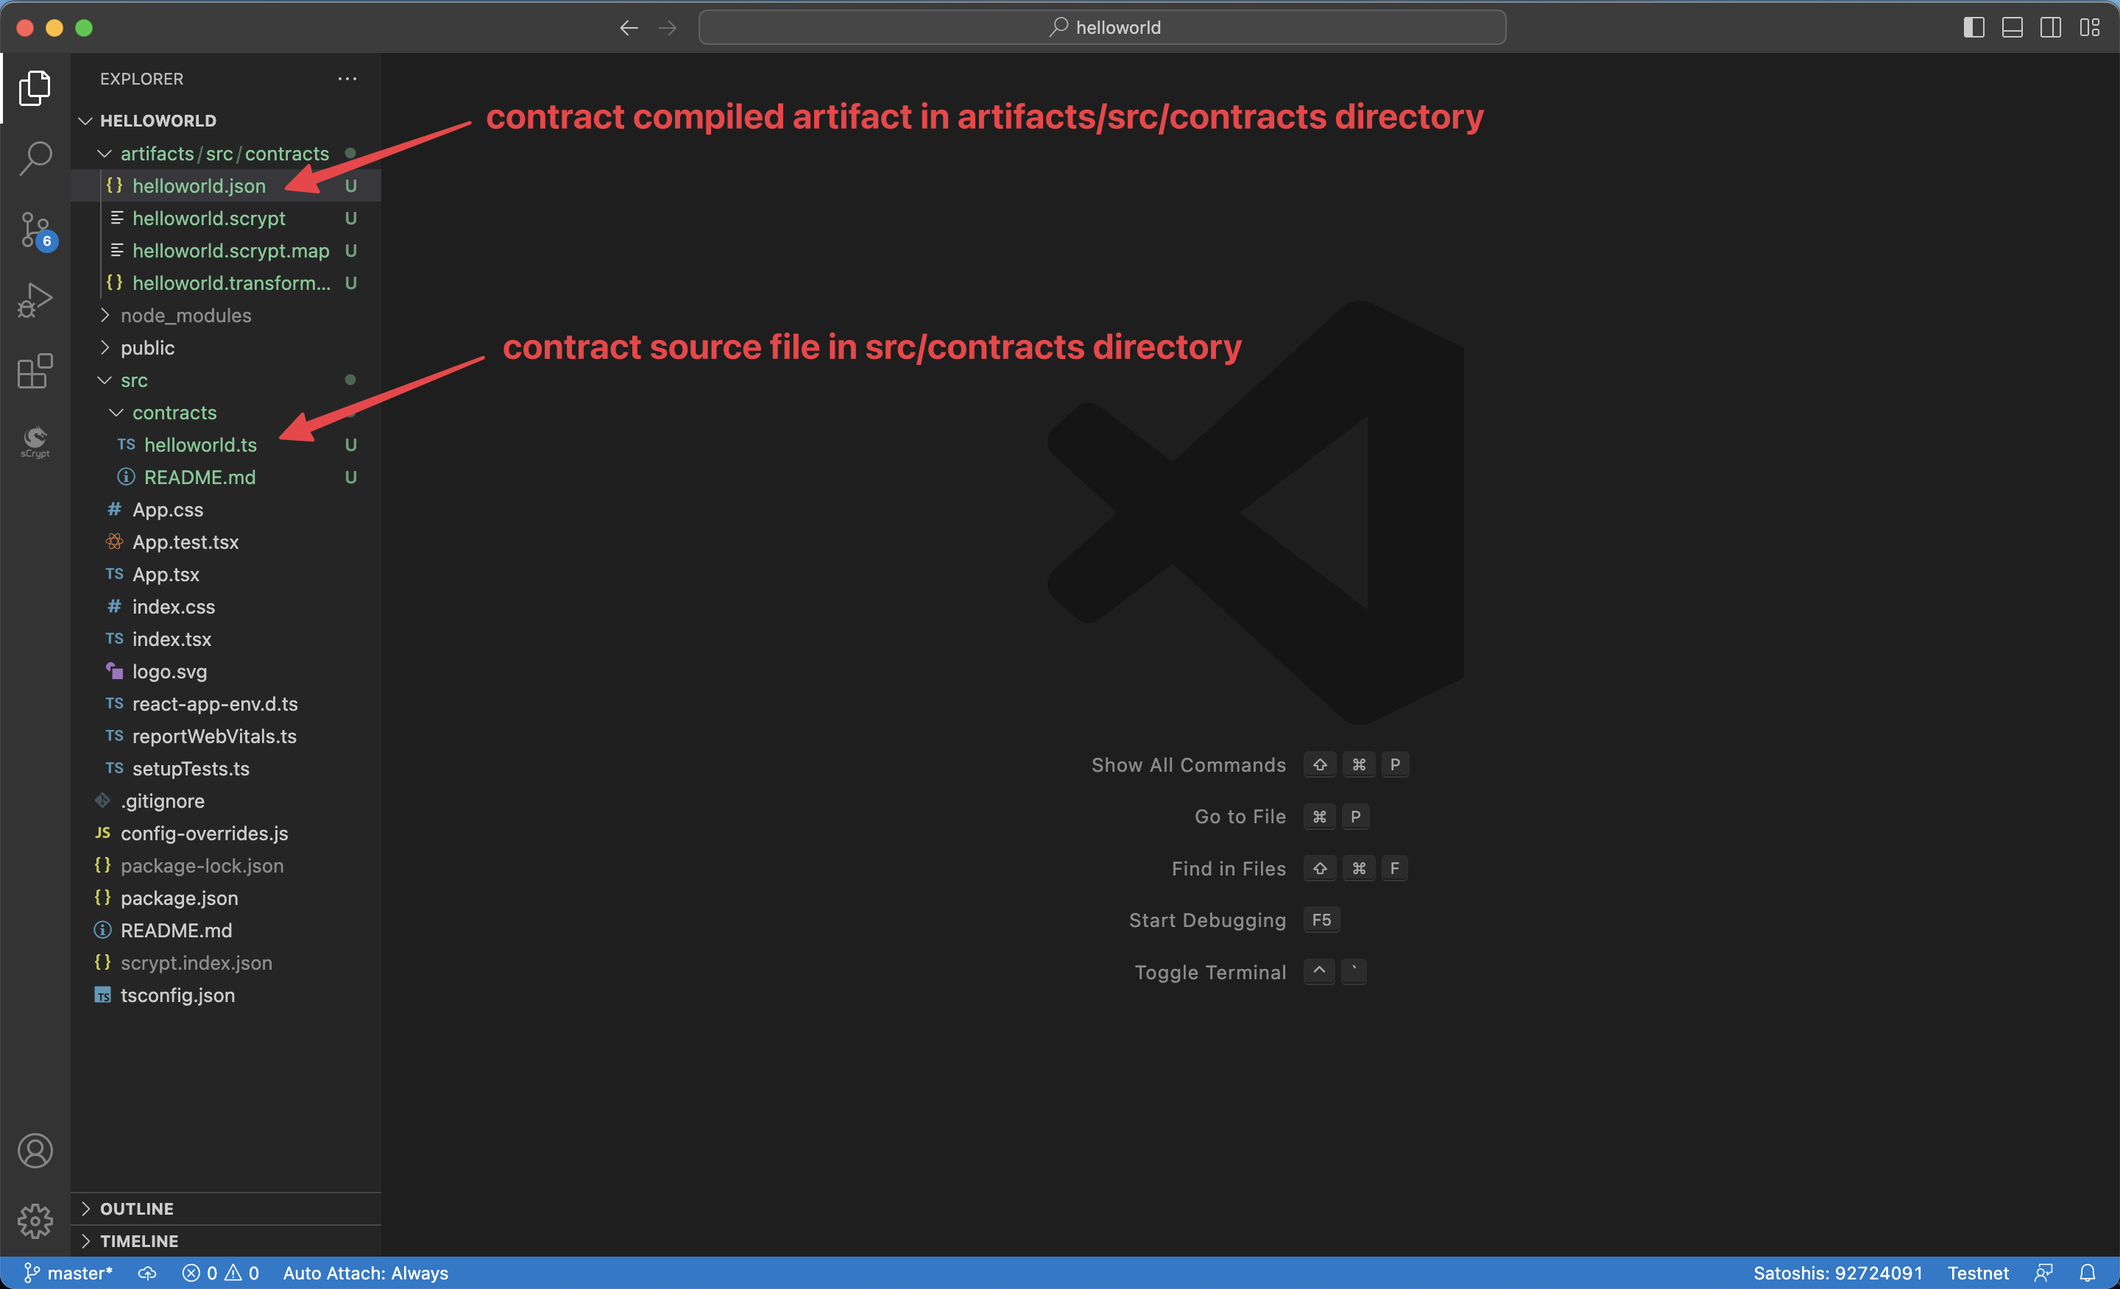
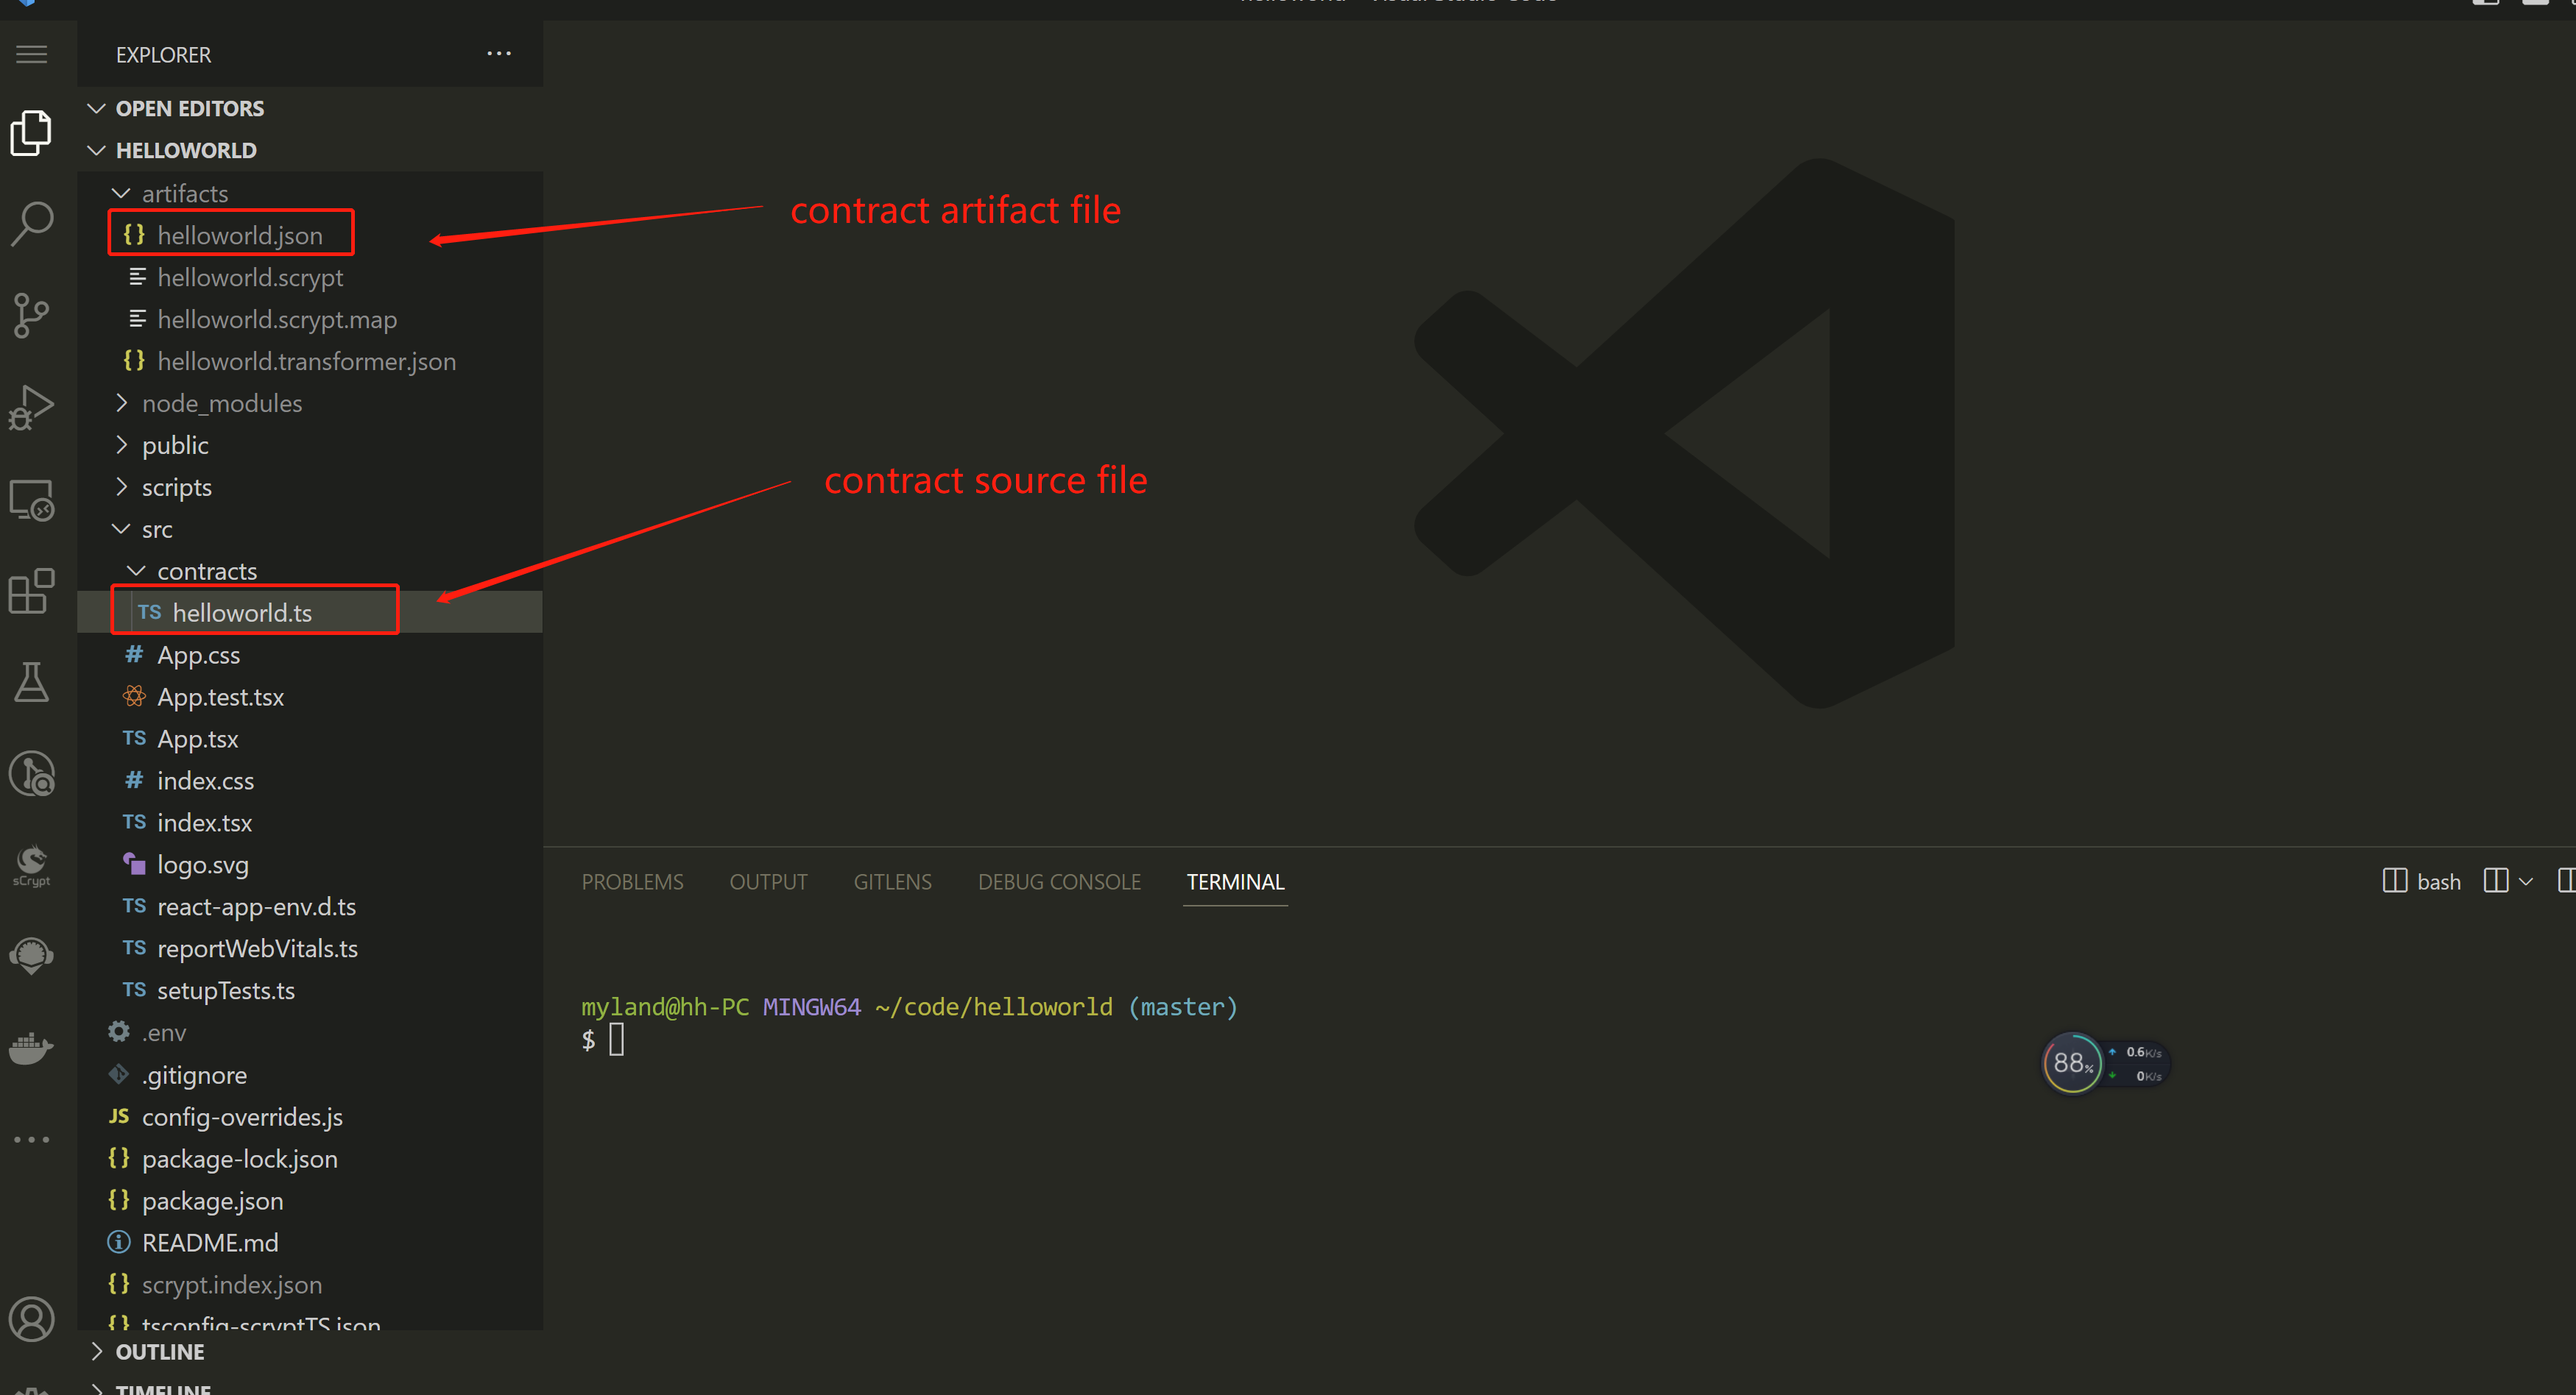
Fix sCrypt-Inc/scrypt-ts#394

diff --git a/docs/how-to-integrate-a-frontend/how-to-integrate-a-frontend.md b/docs/how-to-integrate-a-frontend/how-to-integrate-a-frontend.md
@@ -88,7 +88,7 @@ npx scrypt-cli compile
 
 ![](../../static/img/scrypt-cli-compile.png)
 
-After the compilation, you will get an JSON artifact file at `artifacts/src/contracts/helloworld.json`.
+After the compilation, you will get an JSON artifact file at `artifacts/helloworld.json`.
 
 ![](../../static/img/contract-artifacts.png)
 
@@ -98,7 +98,7 @@ Now with the contract artifact file, you directly load it in the `index.tsx` fil
 
 ```ts
 import { Helloworld } from './contracts/helloworld';
-import artifact from '../artifacts/src/contracts/helloworld.json';
+import artifact from '../artifacts/helloworld.json';
 Helloworld.loadArtifact(artifact);
 ```
 

diff --git a/docs/how-to-write-a-contract/built-ins.md b/docs/how-to-write-a-contract/built-ins.md
@@ -209,7 +209,7 @@ Function `static loadArtifact(artifact: Artifact)` loads the contract artifact f
 
 ```ts
 import { TicTacToe } from './contracts/tictactoe';
-var artifact = require('../artifacts/src/contracts/tictactoe.json');
+import artifact from '../artifacts/tictactoe.json';
 TicTacToe.loadArtifact(artifact);
 ```
 

diff --git a/docs/tutorials/voting.md b/docs/tutorials/voting.md
@@ -312,7 +312,7 @@ Before writing the front-end code, we need to load the contract artifact in `src
 
 ```ts
 import { Voting } from './contracts/voting';
-var artifact = require('../artifacts/src/contracts/voting.json');
+import artifact from '../artifacts/voting.json';
 Voting.loadArtifact(artifact);
 ```
 
